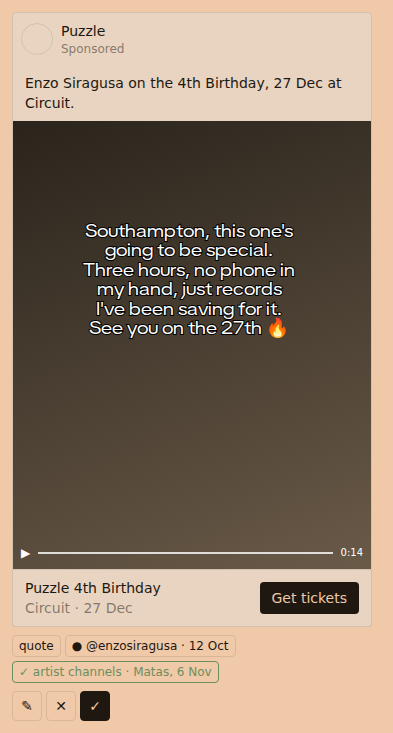
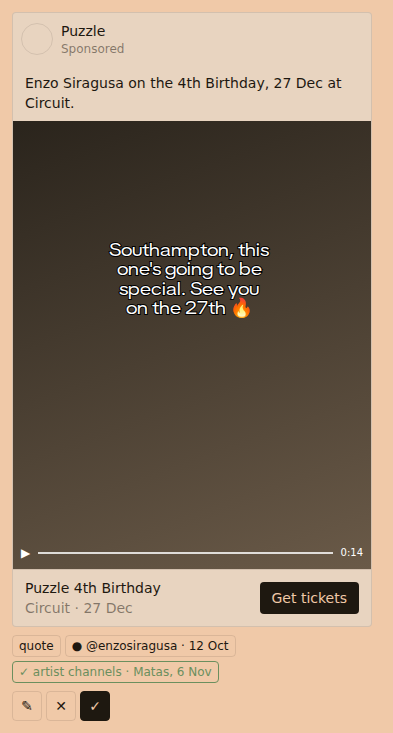
Record face samples on the clip type, and take the Ubuntu shots for the frames that moved.
CLP1 lost its home-state label and CLQ2 uses the short quote. The schema guard needs the new clip columns.

Changed region(s): [[0.2137, 0.3001, 0.7634, 0.4802]]

diff --git a/lib/db/database.types.ts b/lib/db/database.types.ts
@@ -3488,6 +3488,8 @@ export type Database = {
           crop_focus_x: number
           crop_focus_y: number
           event_id: string | null
+          face_samples: Json | null
+          face_samples_at: string | null
           external_id: string | null
           fetched_at: string | null
           id: string
@@ -3521,6 +3523,8 @@ export type Database = {
           crop_focus_x?: number
           crop_focus_y?: number
           event_id?: string | null
+          face_samples?: Json | null
+          face_samples_at?: string | null
           external_id?: string | null
           fetched_at?: string | null
           id?: string
@@ -3554,6 +3558,8 @@ export type Database = {
           crop_focus_x?: number
           crop_focus_y?: number
           event_id?: string | null
+          face_samples?: Json | null
+          face_samples_at?: string | null
           external_id?: string | null
           fetched_at?: string | null
           id?: string

diff --git a/docs/session-logs/pr-1210-cursor-caption-placement.md b/docs/session-logs/pr-1210-cursor-caption-placement.md
@@ -23,7 +23,7 @@ A UGC caption or quote finds a place on the clip that keeps it off faces, and on
 
 - [x] Placement, quote and caption-facts unit tests
 - [ ] `npm run build` — CI
-- [x] Frame baselines from the Ubuntu `plan-frames` artifact on run 43334746833: CLP1–CLP5 at 1280 and 393, and the quote shots that moved (CLQ2, CLQ3-1280, CLQ4, CLW2-1280)
+- [x] Frame baselines from the Ubuntu `plan-frames` artifact. The fix round rebaselined CLP1 and CLQ2 at both widths from run 43405266416 and removed CLQ3.
 
 ## Notes
 
